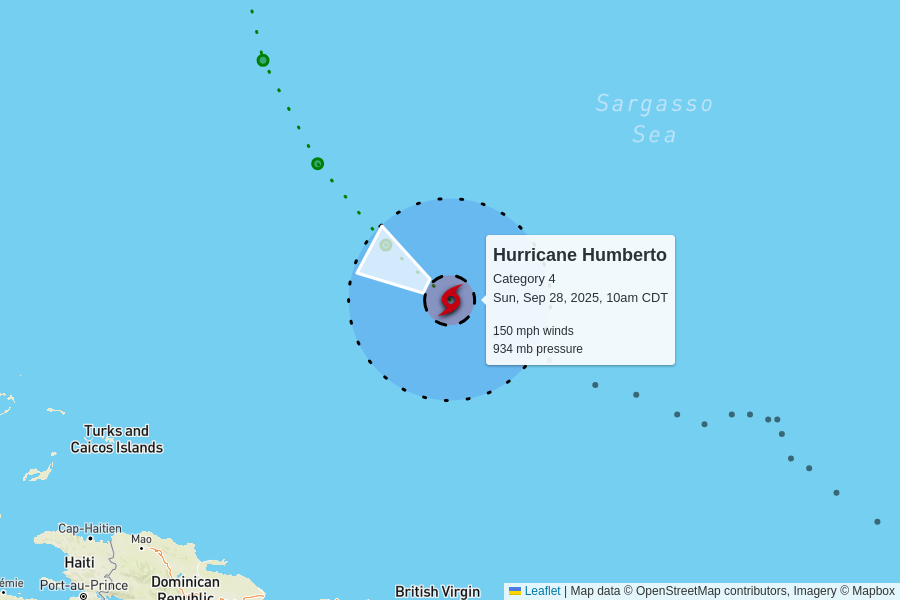
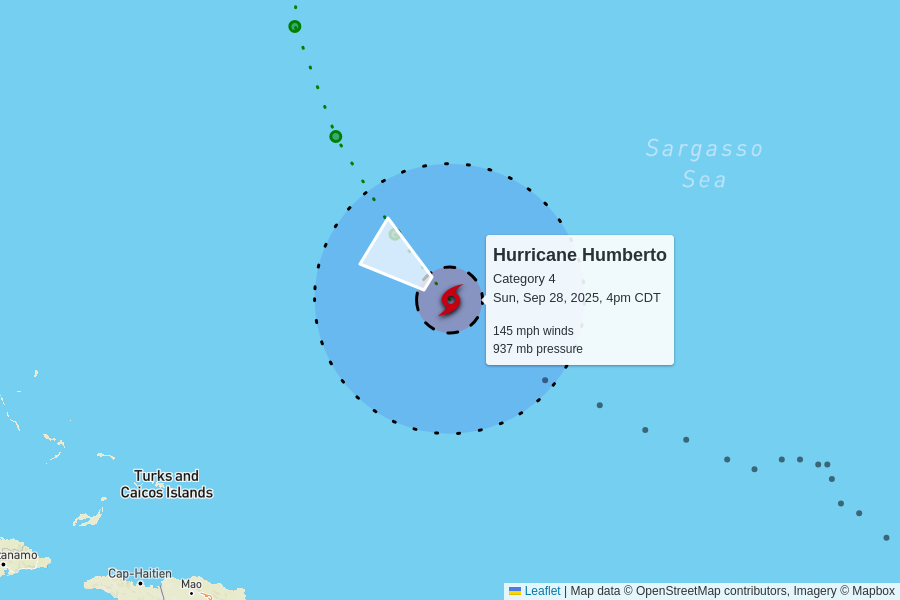
automatic update

diff --git a/docs/index.html b/docs/index.html
@@ -104,7 +104,7 @@
         <td colspan="6" class="storm category-4" >
           <h2>
             Hurricane Humberto - Category 4
-            <p class="updated">last updated <span data-time>2025-09-28T15:00:00.000Z</span></p>
+            <p class="updated">last updated <span data-time>2025-09-28T21:00:00.000Z</span></p>
           </h2>
         </td>
       </tr>
@@ -119,12 +119,12 @@
       </tr>
       <tr>
         <td class="spacer"></td>
-        <td>150 mph<br>-5 mph since last update</td>
-        <td>934 mb<br>+5 mb since last update</td>
+        <td>145 mph<br>-5 mph since last update</td>
+        <td>937 mb<br>+3 mb since last update</td>
         <td>
-          13 mph to the west-northwest
+          13 mph to the northwest
           <br/>
-          <span style="display: inline-block; font-size: 1.5em; transform: rotate(300deg);">↑</span>
+          <span style="display: inline-block; font-size: 1.5em; transform: rotate(305deg);">↑</span>
         </td>
         <td><a href="https://raw.githubusercontent.com/mgwalker/atlantic-hurricanes/main/data/csv/AL082025.csv">AL082025.csv</a></td>
         <td><a href="https://www.nhc.noaa.gov/archive/2025/HUMBERTO.shtml?">NHC advisories</a></td>
@@ -147,8 +147,8 @@
       <tr>
         <td colspan="6" class="storm category-0" >
           <h2>
-            Tropical Depression Nine
-            <p class="updated">last updated <span data-time>2025-09-28T15:00:00.000Z</span></p>
+            Tropical Storm Imelda
+            <p class="updated">last updated <span data-time>2025-09-28T21:00:00.000Z</span></p>
           </h2>
         </td>
       </tr>
@@ -163,15 +163,15 @@
       </tr>
       <tr>
         <td class="spacer"></td>
-        <td>35 mph<br>0 mph since last update</td>
-        <td>1002 mb<br>-1 mb since last update</td>
+        <td>40 mph<br>+5 mph since last update</td>
+        <td>998 mb<br>-4 mb since last update</td>
         <td>
-          7 mph to the north
+          9 mph to the north
           <br/>
-          <span style="display: inline-block; font-size: 1.5em; transform: rotate(350deg);">↑</span>
+          <span style="display: inline-block; font-size: 1.5em; transform: rotate(360deg);">↑</span>
         </td>
         <td><a href="https://raw.githubusercontent.com/mgwalker/atlantic-hurricanes/main/data/csv/AL092025.csv">AL092025.csv</a></td>
-        <td><a href="https://www.nhc.noaa.gov/archive/2025/NINE.shtml?">NHC advisories</a></td>
+        <td><a href="https://www.nhc.noaa.gov/archive/2025/IMELDA.shtml?">NHC advisories</a></td>
       </tr>
       <tr id="storm_AL092025" >
         <td class="spacer">
